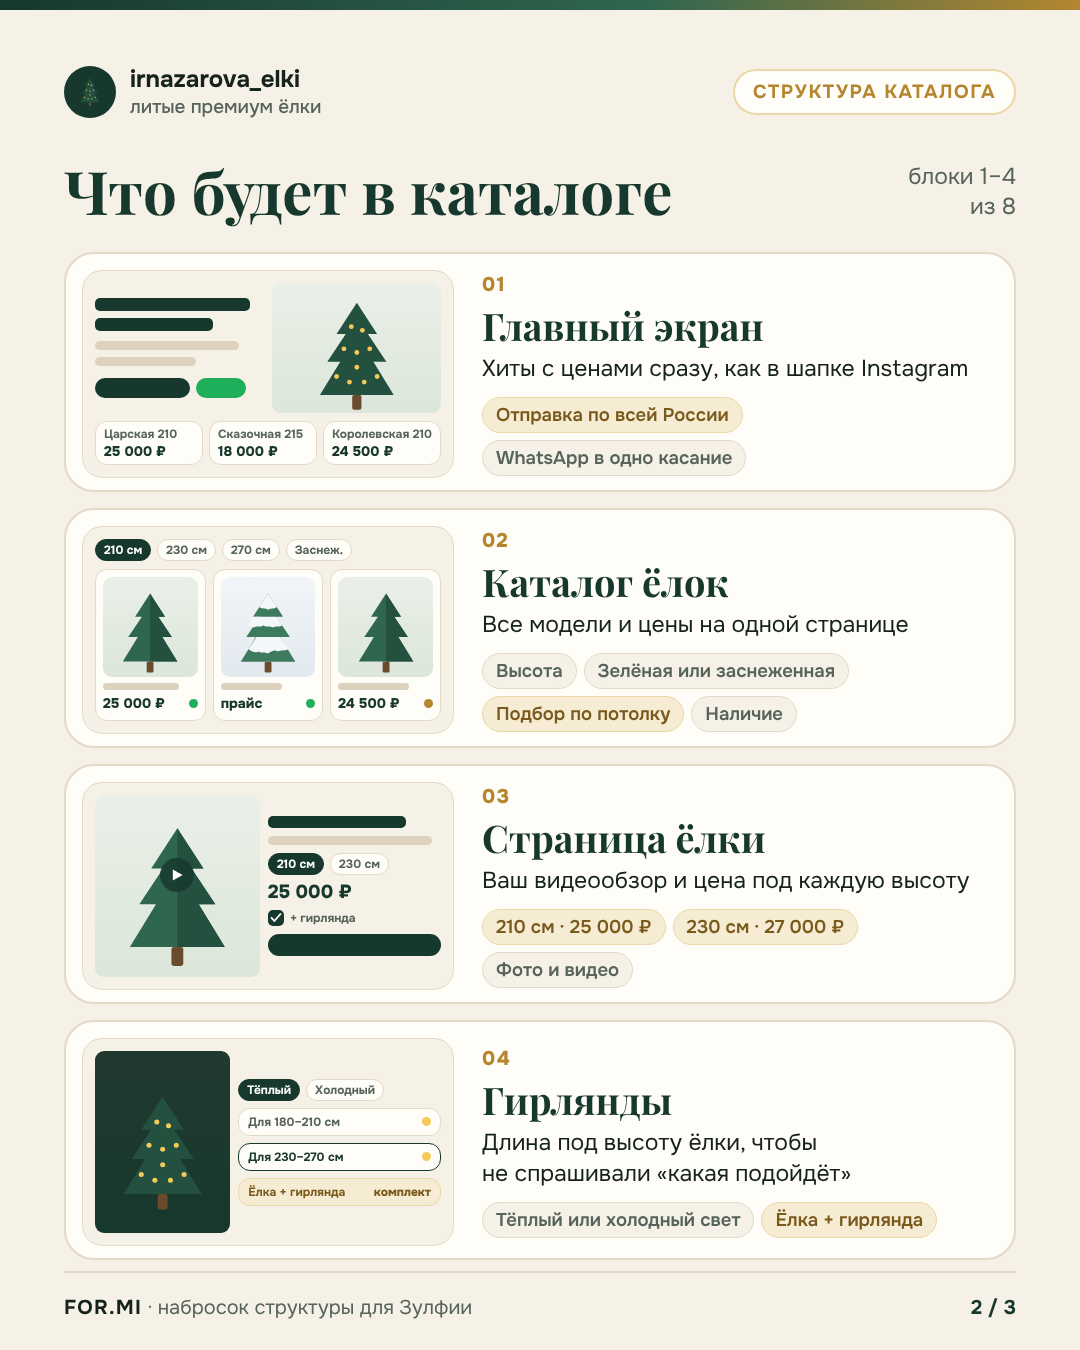
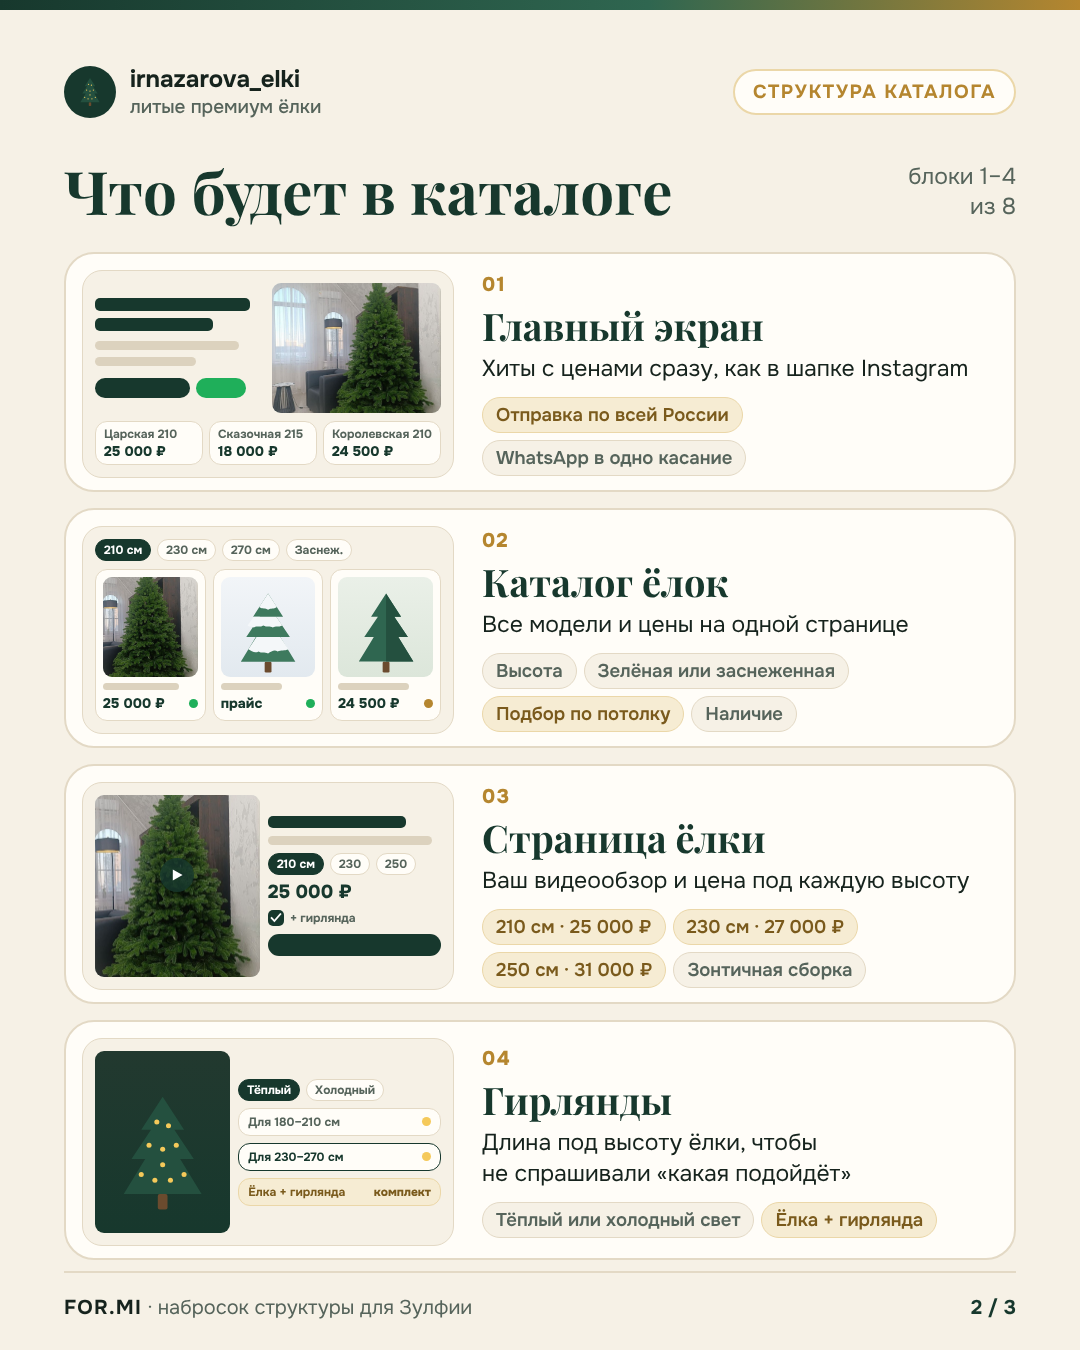
Ёлки Зулфии: фото Царской и цена 250 см в структуре
Claude-Session: https://claude.ai/code/session_01MqcZMGjxBWFrRhdN41bFta

diff --git a/irnazarova-elki/struktura.html b/irnazarova-elki/struktura.html
@@ -218,13 +218,13 @@ h1 em{font-style:normal;color:var(--gold)}
         <div style="display:grid;gap:8px;align-content:center">
           <span class="ln d" style="width:80%;height:12px"></span>
           <span class="ln" style="width:95%"></span>
-          <div class="row"><span class="chipw on">210 см</span><span class="chipw">230 см</span></div>
+          <div class="row"><span class="chipw on">210 см</span><span class="chipw">230</span><span class="chipw">250</span></div>
           <span class="price" style="font-size:19px">25&nbsp;000&nbsp;₽</span>
           <div class="row"><span style="width:16px;height:16px;border-radius:5px;background:var(--pine);display:grid;place-items:center;color:#fff;font-size:11px;font-weight:800">✓</span><span class="mini">+ гирлянда</span></div>
           <span class="pl d" style="height:22px"></span>
         </div>
       </div>
-      <div class="txt"><span class="no">03</span><h3>Страница ёлки</h3><p class="why">Ваш видеообзор и&nbsp;цена под&nbsp;каждую высоту</p><div class="chips"><span class="g">210&nbsp;см · 25&nbsp;000&nbsp;₽</span><span class="g">230&nbsp;см · 27&nbsp;000&nbsp;₽</span><span>Фото и&nbsp;видео</span></div></div>
+      <div class="txt"><span class="no">03</span><h3>Страница ёлки</h3><p class="why">Ваш видеообзор и&nbsp;цена под&nbsp;каждую высоту</p><div class="chips"><span class="g">210&nbsp;см · 25&nbsp;000&nbsp;₽</span><span class="g">230&nbsp;см · 27&nbsp;000&nbsp;₽</span><span class="g">250&nbsp;см · 31&nbsp;000&nbsp;₽</span><span>Зонтичная сборка</span></div></div>
     </article>
 
     <!-- 04 гирлянды -->
@@ -325,10 +325,17 @@ h1 em{font-style:normal;color:var(--gold)}
 
 <script>
 /* Фото Зулфии: положить файл в img/<имя>.jpg — он встанет вместо рисованной ёлки */
-const PHOTOS={hero:"img/hero.jpg",carskaya:"img/carskaya.jpg",snow:"img/snow.jpg",korolevskaya:"img/korolevskaya.jpg",unbox:"img/unbox.jpg"};
+const PHOTOS={
+  hero:["img/carskaya-1.jpg","70% 45%"],
+  carskaya:["img/carskaya-tree.jpg","50% 40%"],
+  snow:["img/snow.jpg","50% 50%"],
+  korolevskaya:["img/korolevskaya.jpg","50% 50%"],
+  unbox:["img/unbox.jpg","50% 50%"]
+};
 document.querySelectorAll("[data-photo]").forEach(el=>{
-  const src=PHOTOS[el.dataset.photo];if(!src)return;
-  const im=new Image();im.alt="";im.onload=()=>{el.appendChild(im);const p=el.querySelector(".play");if(p)el.appendChild(p)};im.src=src;
+  const ph=PHOTOS[el.dataset.photo];if(!ph)return;
+  const im=new Image();im.alt="";im.style.objectPosition=ph[1];
+  im.onload=()=>{el.appendChild(im);const p=el.querySelector(".play");if(p)el.appendChild(p)};im.src=ph[0];
 });
 </script>
 </body>
